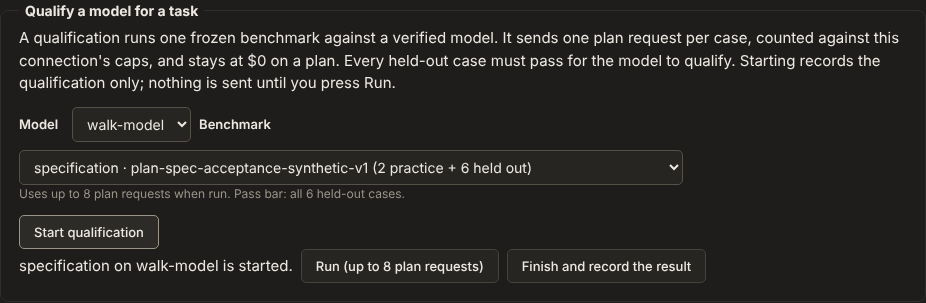
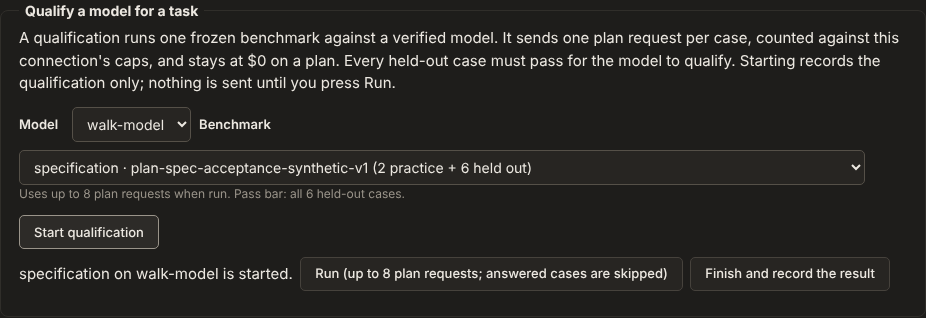
Fix PR #115 review: show run outcome, confirm Finish, local errors, no page lock
Claude-Session: https://claude.ai/code/session_01JTbuZps2QUTrcFNUfPTvF2

diff --git a/apps/web/src/qualify.tsx b/apps/web/src/qualify.tsx
@@ -39,10 +39,53 @@ export function QualifyModel({
   allowed: readonly string[];
   running: PlanQualification[];
   busy: boolean;
-  act: (path: string, body: unknown, timeoutMs?: number) => Promise<unknown>;
+  act: (
+    path: string,
+    body: unknown,
+    timeoutMs?: number,
+    local?: (error: string) => void,
+  ) => Promise<unknown>;
 }) {
   const [model, setModel] = useState('');
   const [bench, setBench] = useState('');
+  // Errors and run results stay next to this form (review of PR #115, L-3), and a run locks
+  // only these buttons, not the whole page (L-4).
+  const [error, setError] = useState('');
+  const [outcome, setOutcome] = useState('');
+  const [runningId, setRunningId] = useState('');
+  const [confirmFinish, setConfirmFinish] = useState('');
+  const locked = busy || runningId !== '';
+  async function run(q: PlanQualification) {
+    setError('');
+    setOutcome('');
+    setRunningId(q.id);
+    try {
+      const out = await act(
+        `plan-qualifications/${q.id}/run`,
+        {},
+        3_600_000,
+        setError,
+      );
+      setOutcome(runOutcome(q, out));
+    } finally {
+      setRunningId('');
+    }
+  }
+  async function finish(q: PlanQualification) {
+    setError('');
+    setOutcome('');
+    setConfirmFinish('');
+    const out = (await act(
+      `plan-qualifications/${q.id}/finish`,
+      {},
+      undefined,
+      setError,
+    )) as { state?: string; reason?: string | null } | null;
+    if (out?.state)
+      setOutcome(
+        `${words(q.task_class)} on ${q.model_id}: ${words(out.state)}${out.reason ? `. ${out.reason}` : '.'}`,
+      );
+  }
   const chosen = BENCHMARKS.find((b) => b.name === bench);
   const p = `plan-connections/${connection.id}`;
   const pick = model || models[0] || '';
@@ -101,7 +144,7 @@ export function QualifyModel({
                   {b.held_out} held out)
                   {allowed.includes(b.task_class)
                     ? ''
-                    : ' · not allowed on this connection'}
+                    : " · not allowed by this connection's settings (Allowed, above)"}
                 </option>
               ))}
             </select>
@@ -114,53 +157,114 @@ export function QualifyModel({
           )}
           <button
             type="button"
-            disabled={busy || !chosen || !pick}
-            onClick={() =>
-              void act(`${p}/qualifications`, {
-                expected_version: connection.version,
-                model_id: pick,
-                manifest: chosen!.manifest,
-                min_held_out_cases: chosen!.held_out,
-                floor: { numerator: 1, denominator: 1 },
-              })
-            }
+            disabled={locked || !chosen || !pick}
+            onClick={() => {
+              setError('');
+              setOutcome('');
+              void act(
+                `${p}/qualifications`,
+                {
+                  expected_version: connection.version,
+                  model_id: pick,
+                  manifest: chosen!.manifest,
+                  min_held_out_cases: chosen!.held_out,
+                  floor: { numerator: 1, denominator: 1 },
+                },
+                undefined,
+                setError,
+              );
+            }}
           >
             Start qualification
           </button>
         </>
       )}
       {running.map((q) => {
+        // The bundled benchmark of this task class, if there is one: a qualification started
+        // elsewhere may use another manifest, so the count is an upper bound only (L-2).
         const b = BENCHMARKS.find((x) => x.task_class === q.task_class);
         const n = b ? b.development + b.held_out : null;
         return (
-          <div key={q.id} className="inline-form" role="group">
+          <div key={q.id} className="qualify-row" role="group">
             <span>
-              {words(q.task_class)} on {q.model_id} is started
-              {q.development.total + q.held_out.total > 0
-                ? ` (${q.development.passed + q.held_out.passed} of ${q.development.total + q.held_out.total} graded cases passed so far)`
-                : ''}
-              .
+              {words(q.task_class)} on {q.model_id} is started.
+              {runningId === q.id &&
+                ' Running: one plan request per case; this can take several minutes.'}
             </span>
-            <button
-              type="button"
-              disabled={busy}
-              onClick={() =>
-                void act(`plan-qualifications/${q.id}/run`, {}, 3_600_000)
-              }
-            >
-              Run{n ? ` (up to ${n} plan requests)` : ''}
+            <button type="button" disabled={locked} onClick={() => void run(q)}>
+              {runningId === q.id
+                ? 'Running…'
+                : `Run${n ? ` (up to ${n} plan requests; answered cases are skipped)` : ''}`}
             </button>
-            <button
-              type="button"
-              className="secondary"
-              disabled={busy}
-              onClick={() => void act(`plan-qualifications/${q.id}/finish`, {})}
-            >
-              Finish and record the result
-            </button>
+            {confirmFinish === q.id ? (
+              <span className="notice small">
+                Finishing now records every unanswered case as failed, and a
+                failed result stays listed.{' '}
+                <button
+                  type="button"
+                  className="secondary"
+                  disabled={locked}
+                  onClick={() => void finish(q)}
+                >
+                  Finish anyway
+                </button>{' '}
+                <button
+                  type="button"
+                  className="text"
+                  onClick={() => setConfirmFinish('')}
+                >
+                  Keep it open
+                </button>
+              </span>
+            ) : (
+              <button
+                type="button"
+                className="secondary"
+                disabled={locked}
+                onClick={() => setConfirmFinish(q.id)}
+              >
+                Finish and record the result
+              </button>
+            )}
           </div>
         );
       })}
+      {outcome && (
+        <p className="small" role="status">
+          {outcome}
+        </p>
+      )}
+      {error && (
+        <p className="error" role="alert">
+          {error}
+        </p>
+      )}
     </fieldset>
   );
+}
+
+/**
+ * What a Run press ended with, in words (review of PR #115, M-1). The server answers 200 with
+ * `stopped` and a reason when a case is refused (caps, sign-in, Claude Code missing), or
+ * `decided` with the recorded qualification once every case has an answer.
+ */
+export function runOutcome(
+  q: { task_class: string; model_id: string },
+  out: unknown,
+): string {
+  const o = (out ?? {}) as {
+    state?: string;
+    reason?: string;
+    qualification?: {
+      state: string;
+      reason: string | null;
+      held_out: { passed: number; total: number };
+    };
+  };
+  const what = `${words(q.task_class)} on ${q.model_id}`;
+  if (o.state === 'stopped')
+    return `${what} stopped: ${words(o.reason ?? 'unknown reason')}. Answered cases are kept. Fix the cause and press Run to continue with the rest, or Finish to record the result now.`;
+  if (o.state === 'decided' && o.qualification)
+    return `${what}: ${words(o.qualification.state)} (${o.qualification.held_out.passed} of ${o.qualification.held_out.total} held-out cases passed)${o.qualification.reason ? `. ${o.qualification.reason}` : '.'}`;
+  return '';
 }

diff --git a/tests/src/web-qualify-form.test.ts b/tests/src/web-qualify-form.test.ts
@@ -1,6 +1,8 @@
 import test from 'node:test';
 import assert from 'node:assert/strict';
 import { readFile } from 'node:fs/promises';
+import { createRequire } from 'node:module';
+import ts from 'typescript';
 import {
   BenchmarkManifestSchema,
   PLAN_RESPONSES_TASK_CLASSES,
@@ -45,4 +47,60 @@ test('every benchmark the app offers would pass the server checks it can know ab
         );
   }
   assert.ok(!files.some((f) => f.endsWith('t12-reviewer-v1.json')));
+});
+
+// qualify.tsx with its sibling import stubbed; the benchmark files and React load for real.
+async function loadQualify() {
+  const source = await readFile('apps/web/src/qualify.tsx', 'utf8');
+  const code = ts.transpileModule(source, {
+    compilerOptions: {
+      module: ts.ModuleKind.CommonJS,
+      jsx: ts.JsxEmit.ReactJSX,
+      esModuleInterop: true,
+    },
+  }).outputText;
+  const require = createRequire(
+    new URL('../../apps/web/src/qualify.tsx', import.meta.url),
+  );
+  const exports = {} as {
+    runOutcome: (
+      q: { task_class: string; model_id: string },
+      out: unknown,
+    ) => string;
+  };
+  new Function('require', 'exports', code)(
+    (name: string) =>
+      name === './oversight.js'
+        ? { words: (s: string) => s.replaceAll('_', ' ') }
+        : require(name),
+    exports,
+  );
+  return exports;
+}
+
+test('a run that stops says why; a finished run says the result (review M-1)', async () => {
+  const { runOutcome } = await loadQualify();
+  const q = { task_class: 'specification', model_id: 'gpt-6-astra' };
+  const stopped = runOutcome(q, {
+    state: 'stopped',
+    reason: 'daily_cap_reached',
+  });
+  assert.match(
+    stopped,
+    /specification on gpt-6-astra stopped: daily cap reached/,
+  );
+  assert.match(stopped, /press Run to continue/);
+  assert.match(
+    runOutcome(q, {
+      state: 'decided',
+      qualification: {
+        state: 'failed',
+        reason: '5/6 held-out cases accepted.',
+        held_out: { passed: 5, total: 6 },
+      },
+    }),
+    /failed \(5 of 6 held-out cases passed\)\. 5\/6 held-out/,
+  );
+  // A failed request (null) leaves no outcome line: its error shows instead.
+  assert.equal(runOutcome(q, null), '');
 });

diff --git a/apps/web/src/models.tsx b/apps/web/src/models.tsx
@@ -181,9 +181,18 @@ export function Models({
       loadSequence.current++;
     };
   }, [workspace.id, selected, active, session?.actor_id]);
-  async function act(path: string, body: unknown, timeoutMs = 5000) {
+  /**
+   * Posts one action and reloads. With `local`, the error goes to the caller instead of the
+   * page-level alert, and the page is not locked (a qualification run can take an hour).
+   */
+  async function act(
+    path: string,
+    body: unknown,
+    timeoutMs = 5000,
+    local?: (error: string) => void,
+  ) {
     if (!session) return null;
-    setBusy(true);
+    if (!local) setBusy(true);
     setError('');
     try {
       const out = await api(z.unknown(), `${base}/${path}`, {
@@ -194,10 +203,10 @@ export function Models({
       await load();
       return out;
     } catch (e) {
-      setError(message(e));
+      (local ?? setError)(message(e));
       return null;
     } finally {
-      setBusy(false);
+      if (!local) setBusy(false);
     }
   }
   const c = detail?.connection;

diff --git a/apps/web/src/style.css b/apps/web/src/style.css
@@ -2386,3 +2386,12 @@ fieldset.flagged {
   color: var(--muted);
   font-weight: normal;
 }
+
+/* A started qualification on Models: its state, Run and Finish. */
+.qualify-row {
+  display: flex;
+  flex-wrap: wrap;
+  align-items: center;
+  gap: 0.5rem;
+  margin: 0.5rem 0;
+}

diff --git a/tracking/BUILD_STATUS.md b/tracking/BUILD_STATUS.md
@@ -12,6 +12,19 @@ Checks run: `pnpm typecheck` and prettier pass. New `tests/src/web-qualify-form.
 
 Limits: Run was not exercised here (it makes real plan requests). The first live run needs Jordan's typed OK. Only the bundled benchmarks can be picked, not a custom manifest. The page waits for the run, which can take minutes. Not walked on the installed desktop app. Next: piece 5, pricing and charges.
 
+Review fixes (review of PR #115 at fcace18, `/mnt/project-files/reviews/PR115_MODEL_QUALIFICATION_REVIEW_2026-11-02.md`):
+
+- M-1: Run now reads the server's answer. A stopped run says why next to the form, for example "stopped: daily cap reached. Answered cases are kept… press Run to continue", and a decided run shows its result.
+- L-1: Finish asks first ("records every unanswered case as failed… Finish anyway / Keep it open").
+- L-2: the Run label says it is an upper bound and that answered cases are skipped.
+- L-3: errors and outcomes show beside the form, not in the page-level alert.
+- L-4: a run locks only the qualification buttons, not the whole Models page.
+- N-1: the "graded so far" text, which could never appear, is removed.
+- N-3: a disallowed benchmark points to the connection's Allowed line.
+- N-2 (benchmarks in the bundle) is unchanged.
+
+Checks: `web-qualify-form` gives 2 pass, including a new test that pins the stopped and decided wording. The walk was re-run: Finish asked first and "Keep it open" kept it open, other page buttons stayed enabled, Run was never pressed, and `plan_requests` = 0.
+
 ## Humility review in the app (audit item 4, piece 3 of 5) — November 2, 2026
 
 What now works: a humility review form, on Projects › Build for each active spec version ("Add a humility review" / "Review again", with the current review's recommendation shown on the spec row) and on Projects › Decide for build and hybrid options (the selection gate needs a review of the option's exact version before "select for build"). The form covers the whole `humility_review` body: the outcome and whose view, supported/inferred/disputed/unknown evidence (one per line), the six comparisons (assessment, viable yes/no, claims cited on Decide), software and human parts, burdens, a disconfirming test, a change-course trigger, ethics, the recommendation, a short rationale and dissent. It posts to the existing `POST entities` (kind `humility_review`, subject = that exact version) and reads `entities/{id}/humility-gate` back. It starts from the newest earlier review of the same spec (any version), else of the spec's option, moved to the current version; otherwise only the problem's affected group / spec audience and the brief's outcome measure are filled in. Viability, ethics status and the recommendation are never pre-picked, including when starting from an earlier review (see review fixes below). A preview says, before saving, whether the review will admit a build (mirroring `humilityGate`). The next-step line no longer says `pnpm cli humility-gate`. The gate's handling of hybrids (pilot F9) is unchanged.

diff --git a/tracking/SESSION_HANDOFF.md b/tracking/SESSION_HANDOFF.md
@@ -12,6 +12,19 @@ Checks run: `pnpm typecheck` and prettier pass. New `tests/src/web-qualify-form.
 
 Limits: Run was not exercised here (it makes real plan requests). The first live run needs Jordan's typed OK. Only the bundled benchmarks can be picked, not a custom manifest. The page waits for the run, which can take minutes. Not walked on the installed desktop app. Next: piece 5, pricing and charges.
 
+Review fixes (review of PR #115 at fcace18, `/mnt/project-files/reviews/PR115_MODEL_QUALIFICATION_REVIEW_2026-11-02.md`):
+
+- M-1: Run now reads the server's answer. A stopped run says why next to the form, for example "stopped: daily cap reached. Answered cases are kept… press Run to continue", and a decided run shows its result.
+- L-1: Finish asks first ("records every unanswered case as failed… Finish anyway / Keep it open").
+- L-2: the Run label says it is an upper bound and that answered cases are skipped.
+- L-3: errors and outcomes show beside the form, not in the page-level alert.
+- L-4: a run locks only the qualification buttons, not the whole Models page.
+- N-1: the "graded so far" text, which could never appear, is removed.
+- N-3: a disallowed benchmark points to the connection's Allowed line.
+- N-2 (benchmarks in the bundle) is unchanged.
+
+Checks: `web-qualify-form` gives 2 pass, including a new test that pins the stopped and decided wording. The walk was re-run: Finish asked first and "Keep it open" kept it open, other page buttons stayed enabled, Run was never pressed, and `plan_requests` = 0.
+
 ## Humility review in the app (audit item 4, piece 3 of 5) — November 2, 2026
 
 What now works: a humility review form, on Projects › Build for each active spec version ("Add a humility review" / "Review again", with the current review's recommendation shown on the spec row) and on Projects › Decide for build and hybrid options (the selection gate needs a review of the option's exact version before "select for build"). The form covers the whole `humility_review` body: the outcome and whose view, supported/inferred/disputed/unknown evidence (one per line), the six comparisons (assessment, viable yes/no, claims cited on Decide), software and human parts, burdens, a disconfirming test, a change-course trigger, ethics, the recommendation, a short rationale and dissent. It posts to the existing `POST entities` (kind `humility_review`, subject = that exact version) and reads `entities/{id}/humility-gate` back. It starts from the newest earlier review of the same spec (any version), else of the spec's option, moved to the current version; otherwise only the problem's affected group / spec audience and the brief's outcome measure are filled in. Viability, ethics status and the recommendation are never pre-picked, including when starting from an earlier review (see review fixes below). A preview says, before saving, whether the review will admit a build (mirroring `humilityGate`). The next-step line no longer says `pnpm cli humility-gate`. The gate's handling of hybrids (pilot F9) is unchanged.
